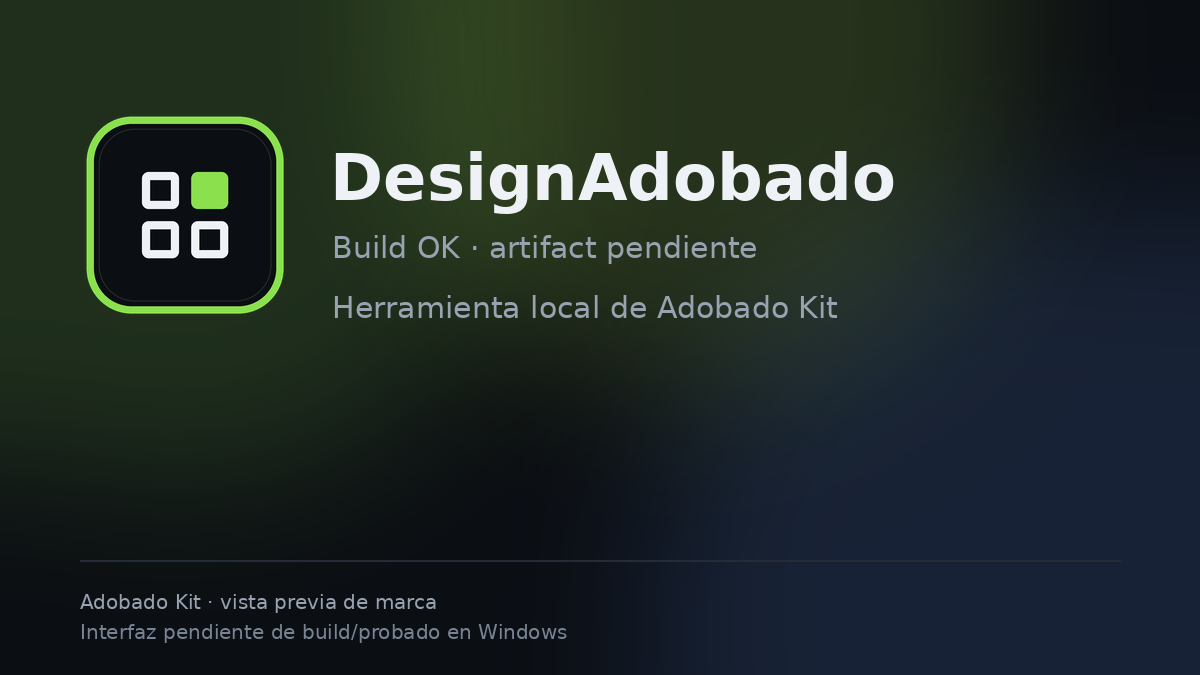
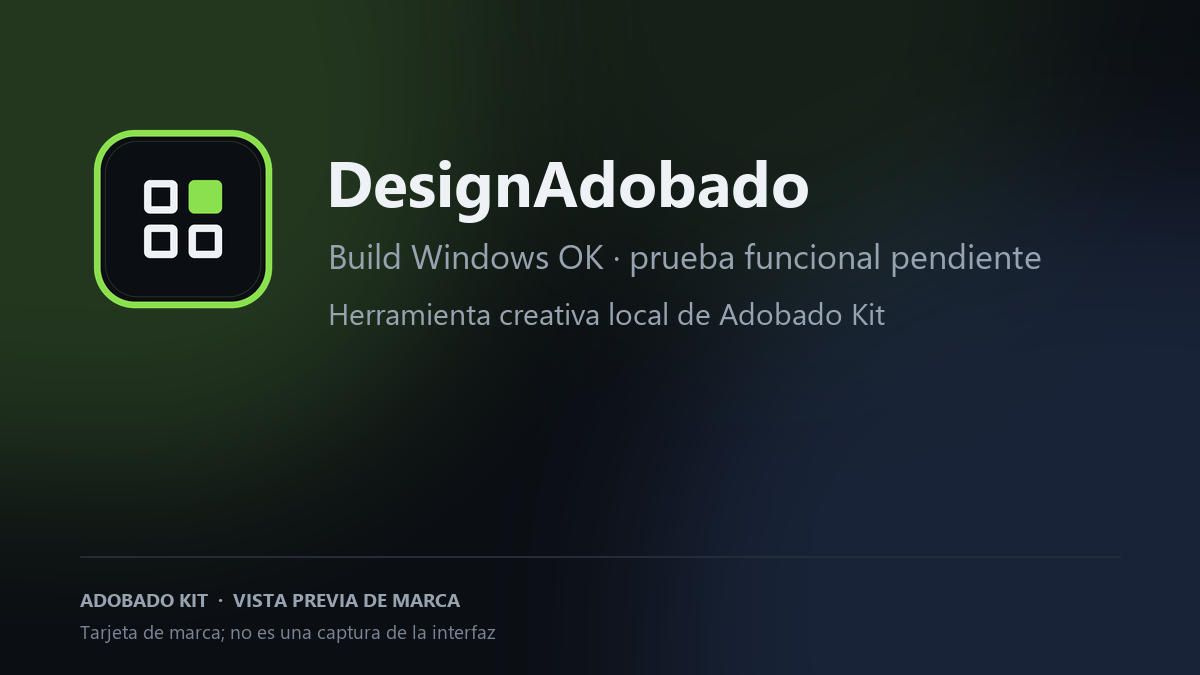
docs: update status and brand assets

diff --git a/README.md b/README.md
@@ -6,21 +6,27 @@
 
 [![License](https://img.shields.io/badge/license-MIT%20OR%20Apache--2.0-6cb6ff)](LICENSE-APACHE)
 [![Rust](https://img.shields.io/badge/Rust-1.95%2B-ff7a59)](Cargo.toml)
-[![Status](https://img.shields.io/badge/status-early%20alpha-d69e2e)](#estado)
-[![Stars](https://img.shields.io/github/stars/smouj/DesignAdobado?style=flat&color=FF5C5C)](https://github.com/smouj/DesignAdobado/stargazers)
+[![Windows build](https://github.com/smouj/DesignAdobado/actions/workflows/windows-build.yml/badge.svg?branch=main)](https://github.com/smouj/DesignAdobado/actions/workflows/windows-build.yml)
+[![Estado](https://img.shields.io/badge/status-instalaci%C3%B3n%20pendiente-ff7a59)](#estado)
+[![Estrellas](https://img.shields.io/github/stars/smouj/DesignAdobado?style=flat&color=B8F34A)](https://github.com/smouj/DesignAdobado/stargazers)
 [![Adobado Kit](https://img.shields.io/badge/Adobado%20Kit-hub-b8f34a)](https://github.com/smouj/Adobado_Kit)
 
-> **Alpha temprana.** Codigo importado y rebrandeado desde DesignCraft. Build de Windows y prueba de edicion pendientes. No se presenta como app disponible ni como sustituto profesional.
+> **Build de Windows correcta (20/10/2026).** Falta instalar e iniciar la app manualmente. La prueba de abrir, modificar y exportar un archivo real también está pendiente. La imagen siguiente es una tarjeta de marca, no una captura de la interfaz.
 >
 > Proyecto independiente. No afiliado a ArtCraft ni a Adobe.
 
-![DesignAdobado](docs/preview.png)
+![DesignAdobado — tarjeta de marca; interfaz pendiente](docs/preview.png)
+
+<sub>Tarjeta de marca; no es una captura de la interfaz.</sub>
 
 ## Estado
 
-- Codigo fuente: importado desde designcraft en el commit 443ea4640ca368fcf0241b04813bd3817acd5df8.
-- Rebranding visible: nombre, enlaces, README, avisos y documentacion.
-- Pendiente: compilar en Windows, probar abrir/editar/exportar y publicar release.
+- **Build de Windows:** correcto en GitHub Actions; consulta el [workflow actual](https://github.com/smouj/DesignAdobado/actions/workflows/windows-build.yml).
+- **Prueba manual:** instalación e inicio pendientes.
+- **Flujo funcional:** abrir, modificar y exportar un archivo real sigue pendiente.
+- **Disponibilidad:** alpha; todavía no se declara lista para uso general.
+- **Release pública:** todavía no existe. No se publica un binario hasta completar las pruebas.
+- **Commit de origen:** 443ea4640ca368fcf0241b04813bd3817acd5df8.
 
 ## Build
 

diff --git a/docs/ADOBADO.md b/docs/ADOBADO.md
@@ -15,12 +15,13 @@
 - Se retiran los logos y assets de marca de ArtCraft incluidos en docs/brand.
 - No se han cambiado el motor, los formatos ni las funciones de edicion.
 
-## Pendiente
+## Estado de validación — 20/10/2026
 
-- Rebranding de iconos de aplicacion.
-- Build de Windows y prueba de abrir, editar y exportar.
-- Release solo cuando exista un binario probado.
-
+- **Build de Windows:** correcto en GitHub Actions ([workflow](https://github.com/smouj/DesignAdobado/actions/workflows/windows-build.yml)).
+- **Prueba manual:** instalación e inicio pendientes.
+- **Uso con archivos reales:** abrir, modificar y exportar sigue pendiente.
+- **Distribución:** todavía no hay una release pública; no se publicará un binario sin completar las pruebas.
+- **Origen:** 443ea4640ca368fcf0241b04813bd3817acd5df8.
 ## Marcas
 
 ArtCraft, DesignCraft y sus logos son marcas del ArtCraft Team y no estan cubiertos por la licencia de codigo. Adobe y sus productos son marcas de Adobe Inc. Este proyecto no esta afiliado a Adobe ni a ArtCraft.

diff --git a/CHANGELOG.md b/CHANGELOG.md
@@ -1,5 +1,13 @@
 # Changelog - DesignAdobado
 
+## [Unreleased]
+
+### Documentado
+- Estado de compilación y validación manual de Windows actualizado.
+- Captura o tarjeta de marca identificada correctamente; se aclara que la prueba con archivos reales sigue pendiente.
+- Se confirma que todavía no existe una release pública.
+
+
 ## 0.1.0-alpha.1 - 2026-10-20
 
 ### Anadido
